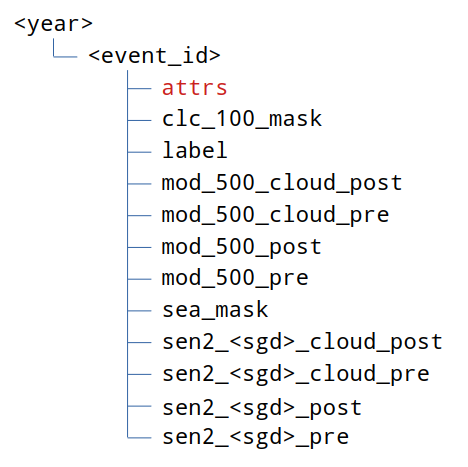
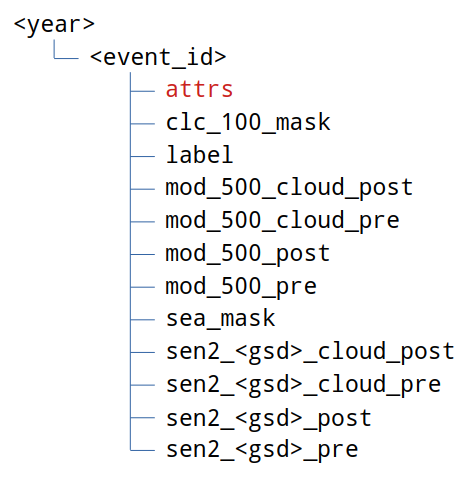
Fix typo

Changed region(s): [[0.1795, 0.0899, 0.9872, 0.9893], [0.0299, 0.03, 0.2094, 0.1199]]

diff --git a/cd_experiments_utils.py b/cd_experiments_utils.py
@@ -19,7 +19,7 @@ CLASS_LABELS = {0: 'Unburnt', 1: 'Burnt', 2: 'Other events'}
 
 
 def train_change_detection(model, device, class_weights, run_path, init_epoch, train_loader, val_loader, validation_id,
-                           sgd, checkpoint, configs, model_configs, rep_i, wandb=None):
+                           gsd, checkpoint, configs, model_configs, rep_i, wandb=None):
     '''
     Train a model for Change Detection using a single satellite source.
     '''
@@ -198,7 +198,7 @@ def train_change_detection(model, device, class_weights, run_path, init_epoch, t
 
         # Evaluate on validation set
         val_acc, val_score, miou, burnt_score = eval_change_detection(model, device, class_weights,
-            init_epoch, val_loader, validation_id, sgd, 'Val', configs, model_configs, rep_i, wandb, run_path)
+            init_epoch, val_loader, validation_id, gsd, 'Val', configs, model_configs, rep_i, wandb, run_path)
 
         if (epoch != 0) and (burnt_score > best_val):
             best_val = burnt_score
@@ -218,7 +218,7 @@ def train_change_detection(model, device, class_weights, run_path, init_epoch, t
                 f.write(f'{burnt_score}')
 
 
-def eval_change_detection(model, device, class_weights, init_epoch, loader, validation_id, sgd,
+def eval_change_detection(model, device, class_weights, init_epoch, loader, validation_id, gsd,
                           mode, configs, model_configs, rep_i, wandb=None, run_path=None):
     cm, iou = initialize_metrics(configs, device)
 
@@ -302,7 +302,7 @@ def eval_change_detection(model, device, class_weights, init_epoch, loader, vali
     selected_bands_idx = {band: order_id for order_id, (band, _) in enumerate(configs['datasets']['selected_bands'][configs['datasets']['data_source']].items())}
 
     if configs['datasets']['data_source'] == 'sen2':
-        if sgd['sen2'] == '10':
+        if gsd['sen2'] == '10':
             if set(['B08', 'B04', 'B03']) <= set(configs['datasets']['selected_bands']['sen2'].keys()):
                 # NIR, Red, Green
                 bands_to_plot = [selected_bands_idx[band] for band in ['B08', 'B04', 'B03']]

diff --git a/run_experiment.py b/run_experiment.py
@@ -111,15 +111,15 @@ if __name__ == '__main__':
         else:
             checkpoint = resume_from_checkpoint
 
-    # Get data sources and SGDs
+    # Get data sources and GSDs
     tmp = configs['dataset_type'].split('_')
     # format: "sen2_xx_mod_yy"
-    sgd = {tmp[0]: tmp[1], tmp[2]: tmp[3]}
+    gsd = {tmp[0]: tmp[1], tmp[2]: tmp[3]}
 
     # Update the configs with the SEN2 or MODIS bands to be used
     data_source = configs['datasets']['data_source']
     for band in configs['datasets']['selected_bands'][data_source].keys():
-        configs['datasets']['selected_bands'][data_source][band] = configs['datasets'][f'{data_source}_bands'][sgd[data_source]][band]
+        configs['datasets']['selected_bands'][data_source][band] = configs['datasets'][f'{data_source}_bands'][gsd[data_source]][band]
 
     # Compute total number of input channels
     inp_channels = len(configs['datasets']['selected_bands'][data_source])
@@ -160,7 +160,7 @@ if __name__ == '__main__':
                 model = model[0]
 
             train_change_detection(model, device, class_weights, run_path, init_epoch, train_loader, val_loader, validation_id,
-                                   sgd, checkpoint, configs, model_configs, rep_i, wandb)
+                                   gsd, checkpoint, configs, model_configs, rep_i, wandb)
 
     # --- Test model ---
 
@@ -190,7 +190,7 @@ if __name__ == '__main__':
 
         model.load_state_dict(checkpoint['model_state_dict'])
         res = eval_change_detection(model, device, class_weights, init_epoch, test_loader, validation_id,
-                                    sgd, 'test', configs, model_configs, rep_i, wandb, run_path)
+                                    gsd, 'test', configs, model_configs, rep_i, wandb, run_path)
 
         for k, v in res.items():
             results[k].append(v)

diff --git a/create_dataset.py b/create_dataset.py
@@ -112,7 +112,7 @@ def export_patches(floga_path, out_path, out_size, out_format, sea_ratio):
             pbar.set_description(f'({hdf_file_i + 1}/{len(hdf_files)}) {hdf_file.name}')
 
             hdf = h5py.File(hdf_file, 'r')
-            year, _, sen_sgd, _, _ = hdf_file.stem.split('_')[2:]
+            year, _, sen_gsd, _, _ = hdf_file.stem.split('_')[2:]
 
             image_names = [
                 'clc_100_mask',
@@ -122,10 +122,10 @@ def export_patches(floga_path, out_path, out_size, out_format, sea_ratio):
                 'mod_500_post',
                 'mod_500_pre',
                 'sea_mask',
-                f'sen2_{sen_sgd}_cloud_post',
-                f'sen2_{sen_sgd}_cloud_pre',
-                f'sen2_{sen_sgd}_post',
-                f'sen2_{sen_sgd}_pre'
+                f'sen2_{sen_gsd}_cloud_post',
+                f'sen2_{sen_gsd}_cloud_pre',
+                f'sen2_{sen_gsd}_post',
+                f'sen2_{sen_gsd}_pre'
             ]
 
             out_path_hdf = out_path / year

diff --git a/visualize_predictions.py b/visualize_predictions.py
@@ -84,15 +84,15 @@ if __name__ == '__main__':
     # Load checkpoint
     checkpoint = torch.load(resume_from_checkpoint, map_location=device)
 
-    # Get data sources and SGDs
+    # Get data sources and GSDs
     tmp = configs['dataset_type'].split('_')
     # format: "sen2_xx_mod_yy"
-    sgd = {tmp[0]: tmp[1], tmp[2]: tmp[3]}
+    gsd = {tmp[0]: tmp[1], tmp[2]: tmp[3]}
 
     # Update the configs with the SEN2 or MODIS bands to be used
     data_source = configs['datasets']['data_source']
     for band in configs['datasets']['selected_bands'][data_source].keys():
-        configs['datasets']['selected_bands'][data_source][band] = configs['datasets'][f'{data_source}_bands'][sgd[data_source]][band]
+        configs['datasets']['selected_bands'][data_source][band] = configs['datasets'][f'{data_source}_bands'][gsd[data_source]][band]
 
     # Compute total number of input channels
     inp_channels = len(configs['datasets']['selected_bands'][data_source])

diff --git a/dataset_utils.py b/dataset_utils.py
@@ -36,7 +36,7 @@ class Dataset(torch.utils.data.Dataset):
 
         # format: "sen2_xx_mod_yy"
         tmp = configs['dataset_type'].split('_')
-        self.sgd = {tmp[0]: tmp[1], tmp[2]: tmp[3]}
+        self.gsd = {tmp[0]: tmp[1], tmp[2]: tmp[3]}
 
         self.clc = clc
         self.sea = sea
@@ -45,7 +45,7 @@ class Dataset(torch.utils.data.Dataset):
         self.selected_bands = {}
         self.means = {}
         self.stds = {}
-        for k, v in self.sgd.items():
+        for k, v in self.gsd.items():
             self.selected_bands[k] = configs['datasets']['selected_bands'][k].values()
             self.means[k] = [m for i, m in enumerate(configs['datasets'][f'{k}_mean'][v]) if i in self.selected_bands[k]]
             self.stds[k] = [m for i, m in enumerate(configs['datasets'][f'{k}_std'][v]) if i in self.selected_bands[k]]
